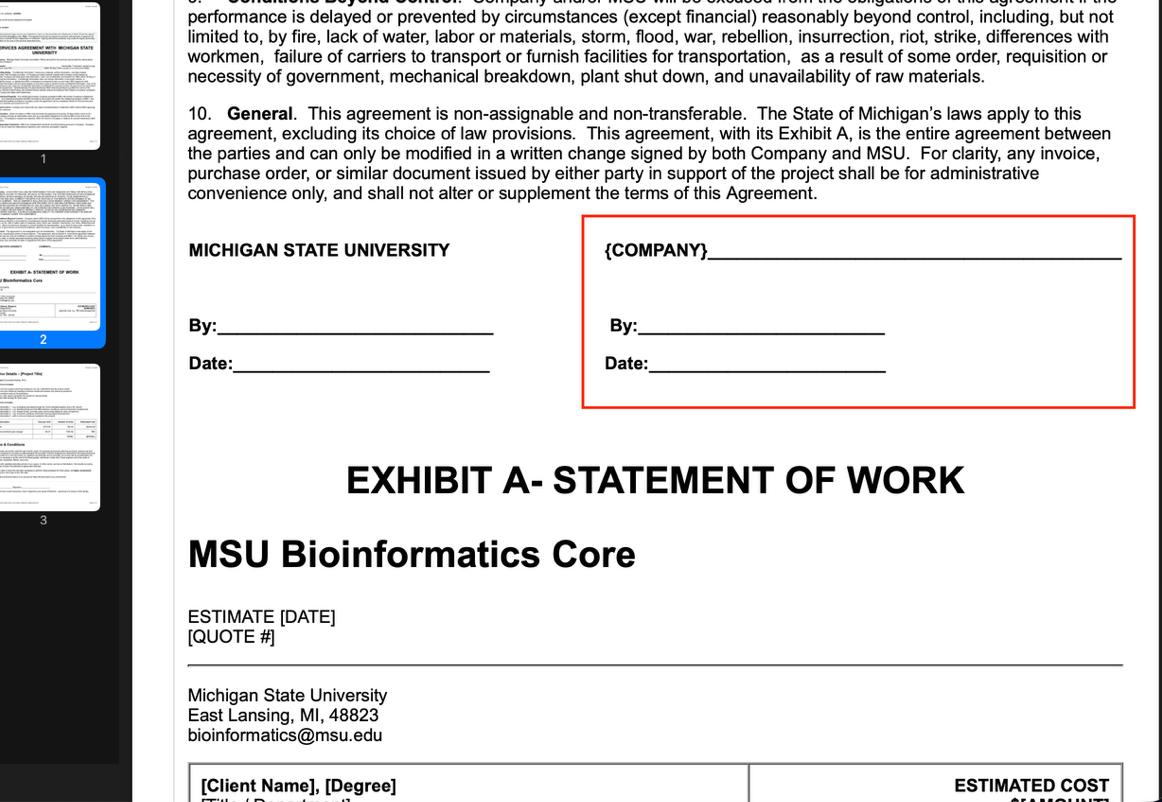
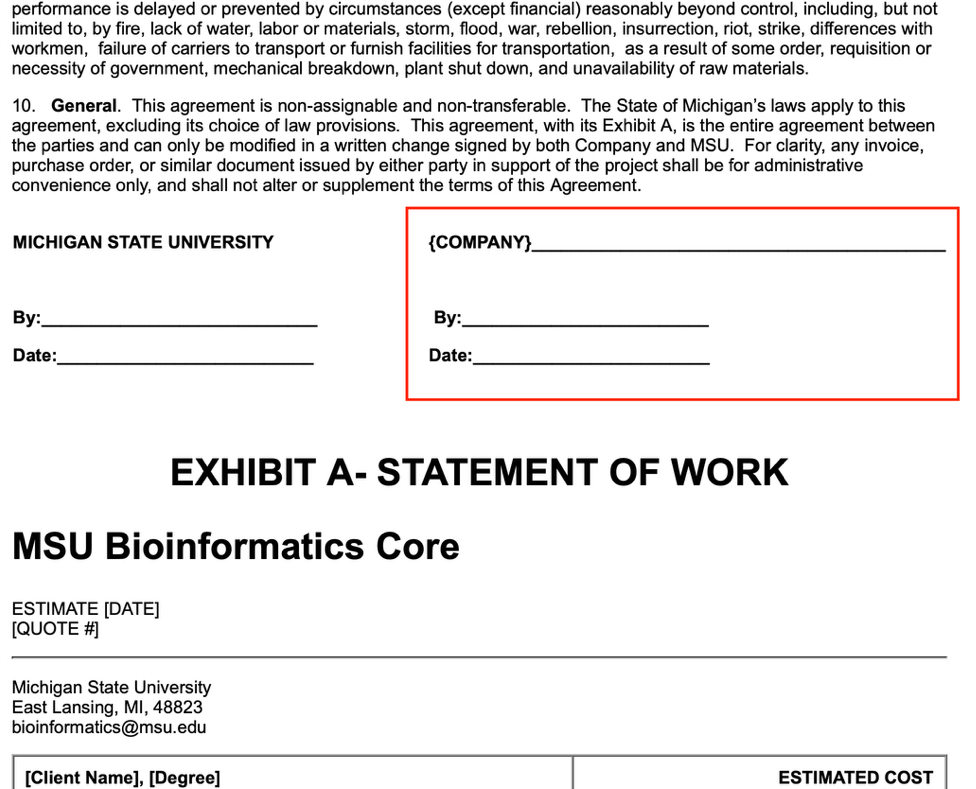
Add help desk note to PPMS pages and refine instructions

Changed region(s): [[0.0, 0.0, 1.0, 1.0], [0.1537, 0.5779, 0.8299, 0.6388]]

diff --git a/ppms_signing_cost_estimate_or_service_agreement.md b/ppms_signing_cost_estimate_or_service_agreement.md
@@ -18,7 +18,7 @@ These step-by-step instructions show how to review, sign, and return a cost esti
    <img src="images/ppms-signing-step1.png" alt="PPMS login screen" style="max-width: 800px; width: 100%; height: auto;">
 
 2. **Open your document**
-   - Once you're logged in, you'll see your cost estimate (MSU researchers) or service agreement (non-MSU researchers). A green box at the top of the document explains how to sign and return it.
+   - Once you're logged in, you'll automatically be presented with your cost estimate (MSU researchers) or service agreement (non-MSU researchers). If it is not automatically presented, it will also be available in the Documents tab. A green box at the top of the document explains how to sign and return it.
 
    <img src="images/ppms-signing-step2.png" alt="Cost estimate document with instructions highlighted" style="max-width: 800px; width: 100%; height: auto;">
 
@@ -55,3 +55,7 @@ These step-by-step instructions show how to review, sign, and return a cost esti
 
 6. **Assign a financial account**
    - Once the estimate or service agreement is signed, you'll need to assign a financial account to the associated project, if you haven't already. See [Assigning a Financial Account to a Project](./ppms_assign_account_number) for instructions.
+
+<div style="background:#EAF4EE; border-left:4px solid #18453B; padding:12px 18px; margin:24px 0;">
+<strong>Need help?</strong> Message our <a href="https://tinyurl.com/54dezh59">virtual help desk</a> or email <a href="mailto:bioinformatics@msu.edu">bioinformatics@msu.edu</a>.
+</div>

diff --git a/ppms_ordering_human_data_disclosure.md b/ppms_ordering_human_data_disclosure.md
@@ -13,7 +13,7 @@ These step-by-step instructions show how to order and fill out a Human Data Disc
 ## Step-by-Step Guide
 
 1. **Start an order**
-   - At the top of the screen, select "Order."
+   - At the top of the screen, select the "Order" tab.
 
    <img src="images/ppms-hdd-step1.png" alt="Order tab at the top of PPMS" style="max-width: 800px; width: 100%; height: auto;">
 
@@ -28,10 +28,14 @@ These step-by-step instructions show how to order and fill out a Human Data Disc
    <img src="images/ppms-hdd-step3.png" alt="Quantity field for Human Data Disclosure" style="max-width: 800px; width: 100%; height: auto;">
 
 4. **Fill out the form**
-   - This pops up the Human Data Disclosure form for you to fill out.
+   - This pops up the Human Data Disclosure form for you to fill out. Once you are finished, click the  “Place Order” button. 
 
    <img src="images/ppms-hdd-step4.png" alt="Human Data Disclosure form" style="max-width: 800px; width: 100%; height: auto;">
 
 <div style="background:#EAF4EE; border-left:4px solid #18453B; padding:12px 18px; margin:24px 0;">
 <strong>Note:</strong> If you're unsure how your data should be classified, use the Human Research Protection Program, IRB Office, or Compliance Office links inside the form before you submit.
+</div>
+
+<div style="background:#EAF4EE; border-left:4px solid #18453B; padding:12px 18px; margin:24px 0;">
+<strong>Need help?</strong> Message our <a href="https://tinyurl.com/54dezh59">virtual help desk</a> or email <a href="mailto:bioinformatics@msu.edu">bioinformatics@msu.edu</a>.
 </div>

diff --git a/ppms_assign_account_number.md b/ppms_assign_account_number.md
@@ -58,3 +58,7 @@ These step-by-step instructions show how to assign a financial account to a proj
 8. **Assign the account to your project**
    - Once your request is approved, the account still needs to be linked to a project. If you entered a project reference when you submitted the request, PPMS will link it automatically. If not, return to Step 2 and enter the account number in the "Financial Account number" box to assign it directly.
 
+
+<div style="background:#EAF4EE; border-left:4px solid #18453B; padding:12px 18px; margin:24px 0;">
+<strong>Need help?</strong> Message our <a href="https://tinyurl.com/54dezh59">virtual help desk</a> or email <a href="mailto:bioinformatics@msu.edu">bioinformatics@msu.edu</a>.
+</div>
